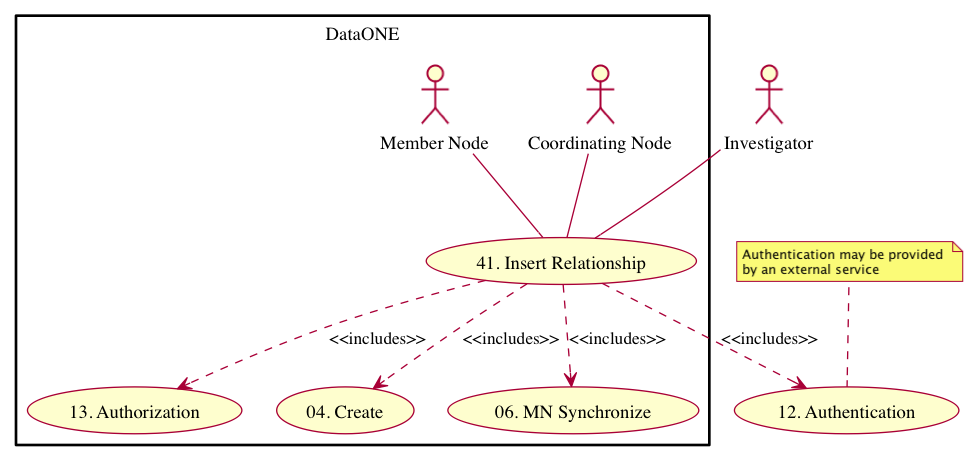
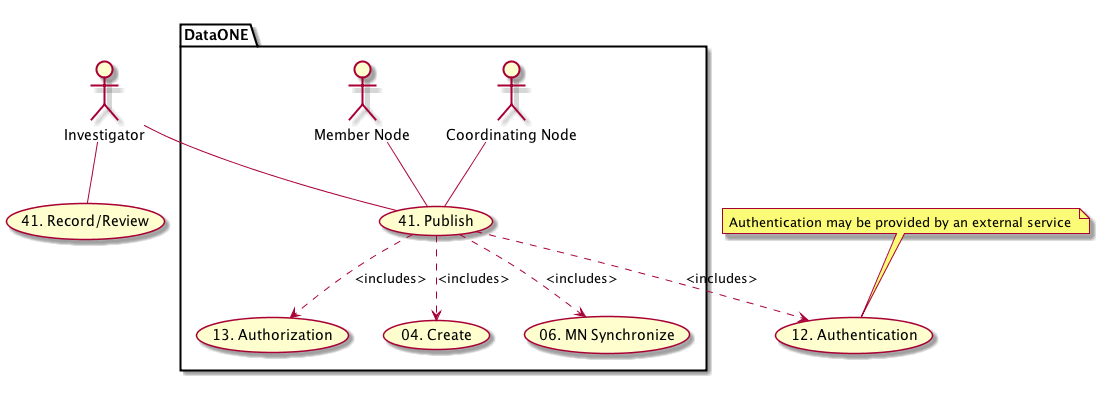
update use case 41 diagrams with record(), view(), publish()

diff --git a/docs/use-cases/provenance/use-case-41.md b/docs/use-cases/provenance/use-case-41.md
@@ -1,63 +1,70 @@
 Use case 41
 
-@startuml images/41_uc.png
-actor "Investigator" as client
-usecase "12. Authentication" as authen
-note top of authen
-   Authentication may be provided 
-   by an external service
-   end note
-   
-package "DataONE"{
-actor "Coordinating Node" as CN
-actor "Member Node" as MN
-usecase "13. Authorization" as author
-usecase "41. Insert Relationship" as insert_rel
-usecase "04. Create" as create
-usecase "06. MN Synchronize" as mn_sync
-client -- insert_rel
-CN -- insert_rel
-MN -- insert_rel
-insert_rel ..> author: <<includes>>
-insert_rel ..> authen: <<includes>>
-insert_rel ..> create: <<includes>>
-insert_rel ..> mn_sync: <<includes>>
-}
-@enduml 
+  @startuml images/41_uc.png 
 
-@startuml images/41_seq.png
-   Actor Investigator
-   participant "Client Software" as app_client << Application >>
-   Investigator -> app_client
-   participant "MN API" as mn_api << Member Node >>
-   participant "CN API" as cn_api << Coordinating Node >>
-   
-   app_client -> app_client: insertRelationship(subject_ID, \n object_ID, predicate_namespace, \n predicate_URI)
-   
-   app_client -> mn_api: create(auth_token, dataPackage)
-   note right of app_client 
-   Create request is sent 
-   for each data object
-   end note
-   
-   mn_api -> mn_api: store()
+    actor "Investigator" as client 
+    usecase "41. Record/Review" as record
+    client -- record
 
-   cn_api -> mn_api: listObjects()
-   
-   mn_api --> cn_api: object list
-   
-   cn_api -> mn_api: get(pid)
-   mn_api --> cn_api: object
-   
-   cn_api -> mn_api: getSystemMetadata(pid)
-   mn_api --> cn_api: systemMetadata
+  usecase "12. Authentication" as authen 
+  note top of authen 
+    Authentication may be provided by an external service 
+  end note
+  
+  package "DataONE" { 
+    actor "Coordinating Node" as CN 
+    actor "Member Node" as MN 
+    usecase "13. Authorization" as author 
+    usecase "04. Create" as create 
+    usecase "41. Publish" as publish
+    usecase "06. MN Synchronize" as mn_sync 
+    client -- publish
+    CN -- publish
+    MN -- publish 
+    publish ..> author: <includes> 
+    publish ..> authen: <includes> 
+    publish ..> mn_sync: <includes> 
+    publish ..> create: <includes>
+  } 
+ 
+  @enduml
 
-   cn_api -> cn_api: store()
-   cn_api -> cn_api: index()
-   note right of cn_api
-   Relationships are
-   indexed and searchable
-   end note
-
-   @enduml
+ @startuml images/41_seq.png 
+ Actor Investigator 
+ participant "Client Software" as app_client << Application >> 
+ participant "MN API" as mn_api << Member Node >> 
+ participant "CN API" as cn_api << Coordinating Node >>
+ loop
+ Investigator -> app_client: record(scriptName)
+ app_client --> Investigator: runId
+ Investigator -> app_client: view(runId)
+ alt derived products are ready to publish
+ Investigator -> app_client: publish(runId)
+ app_client -> app_client: insertRelationship()
+ app_client -> mn_api: create(auth_token, dataPackage) 
+ note right of app_client 
+ Create request is sent 
+ for each data object 
+ end note
+ mn_api -> mn_api: store()
+ cn_api -> mn_api: listObjects()
+ mn_api --> cn_api: object list
+ cn_api -> mn_api: get(pid) mn_api --> cn_api: object
+ cn_api -> mn_api: getSystemMetadata(pid) mn_api --> cn_api: systemMetadata
+ cn_api -> cn_api: store() cn_api -> cn_api: index() 
+ note right of cn_api 
+ Relationships are 
+ indexed and searchable 
+ end note
+ else derived products not ready to publish
+ note right of Investigator
+ At this point, the Investigator 
+ may decide to modify their script 
+ and perform the ecord() and view() 
+ process again.
+ end note
+ end
+ end
+ 
+ @enduml
    

diff --git a/docs/use-cases/provenance/use-case-46.rst b/docs/use-cases/provenance/use-case-46.rst
@@ -32,7 +32,7 @@ and the associated provenance
 relationship between the script and the input dataset is captured. This dataset is 
 then used to create a derived dataset, then the provenance relationship between the script and derived dataset is recorded.
 
-.. image:: sequence-46.png
+.. image:: images/sequence-46.png
 
 Preconditions
 -------------
